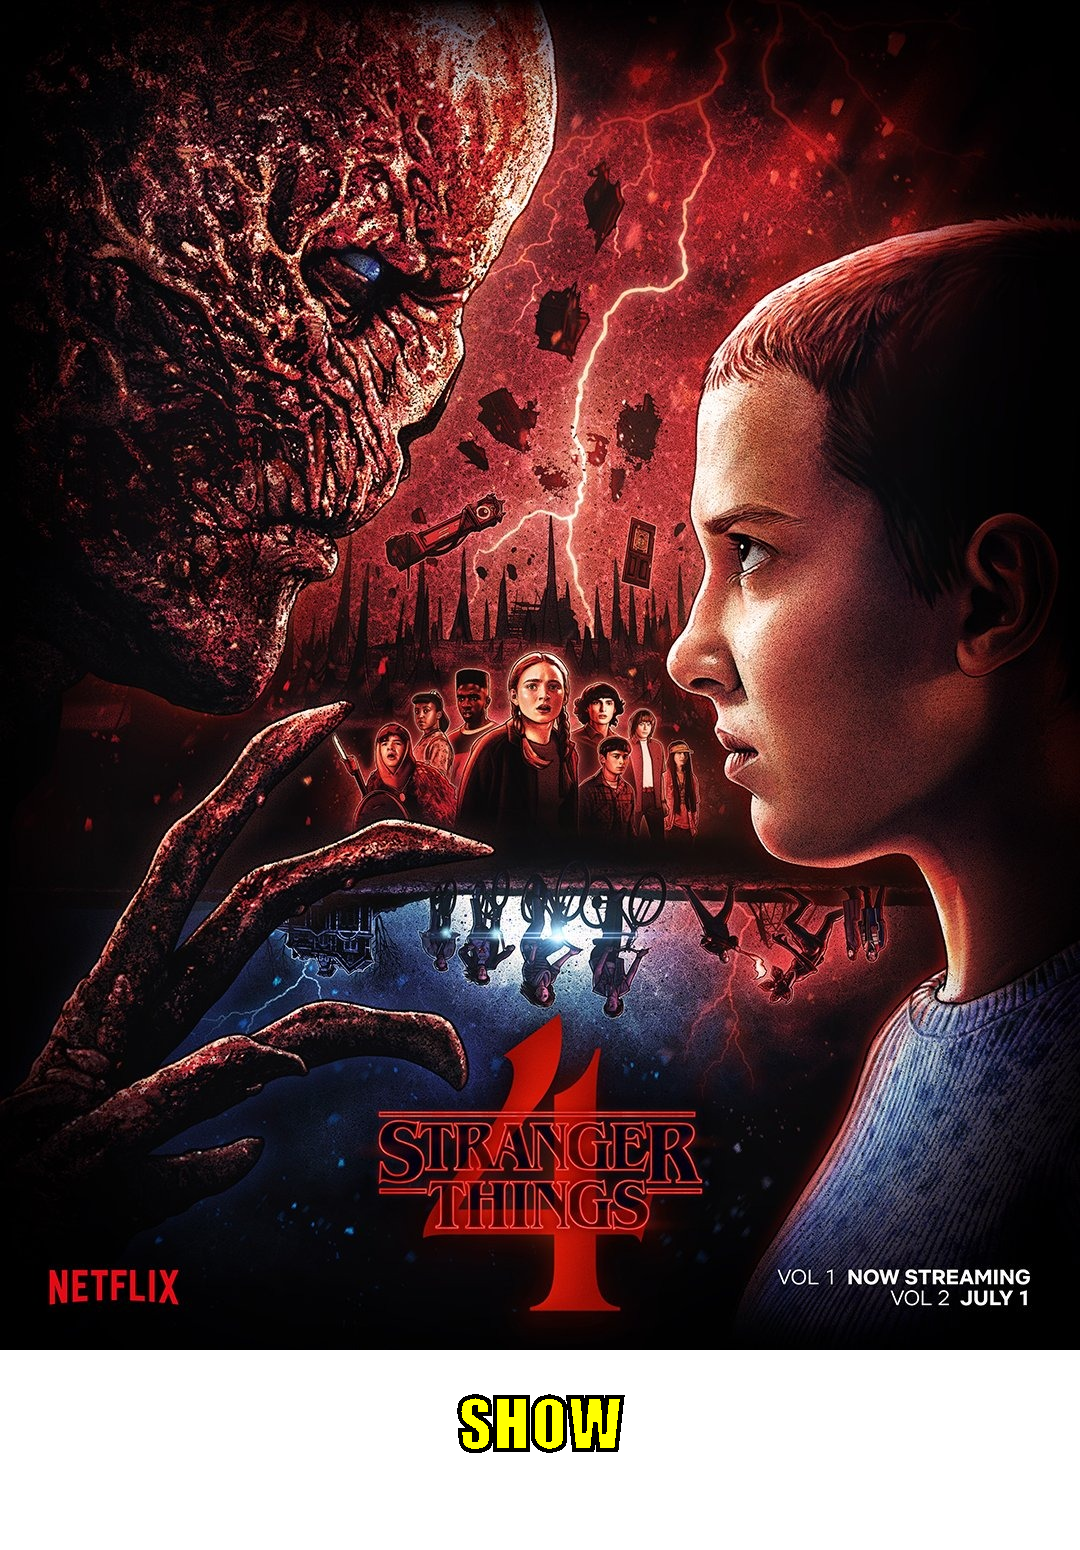
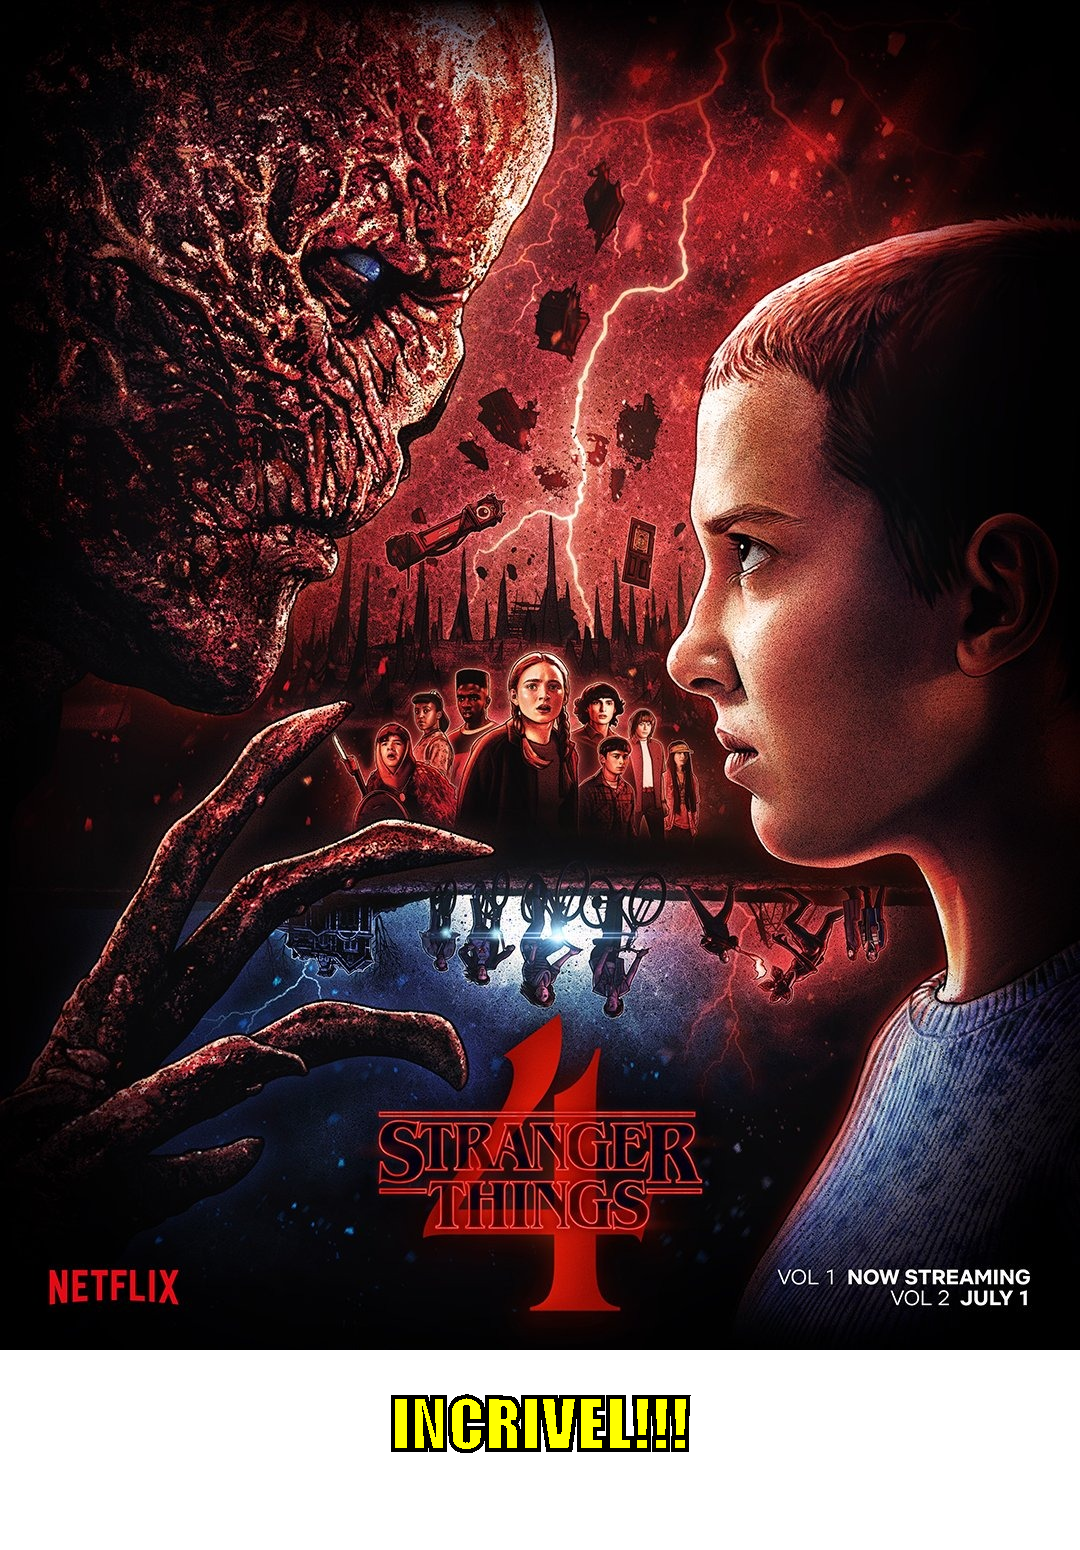
Faz o texto ser diferente dependendo da nota

Changed region(s): [[0.3361, 0.8981, 0.6417, 0.96]]

diff --git a/imsersão-stickers/src/App.java b/imsersão-stickers/src/App.java
@@ -26,6 +26,7 @@ public class App {
                 // exibir e manupular os dados
                 var diretorio = new File("figurinhas/");
                 diretorio.mkdir();
+                String texto = "Nem perca tempo";
                 for (Map<String,String> serie : listaDeSeries) {
                     String urlImagem = serie.get("image");
                     String titulo = serie.get("title");
@@ -34,10 +35,28 @@ public class App {
 
                     String nomeArquivo = "figurinhas/" + titulo + ".png";
 
+                    
+                    String nota = serie.get("imDbRating");
+                    double notaD = Double.parseDouble(nota);
 
-                    geradora.cria(inputStream, nomeArquivo);
+                    if (notaD == 10 || notaD>=8.5){ 
+                        texto="INCRIVEL!!!";
+                    }
+                    
+                    if (notaD <= 8.4 || notaD<=6){ 
+                        texto="Bom";
+                    }
+                    
+                    if (notaD >= 6 && notaD<=5){ 
+                        texto="Mediano";
+                    }
+                    
+
+
+                    geradora.cria(inputStream, nomeArquivo, texto);
 
                     System.out.println("\u001b[1m \u001b[44m Titulo: \u001b[m \u001b[m" + serie.get("title"));
+                    System.out.println(notaD);
                     System.out.println();
                 }
     }

diff --git a/imsersão-stickers/src/GeradorDeFigurinha.java b/imsersão-stickers/src/GeradorDeFigurinha.java
@@ -15,7 +15,7 @@ import java.io.InputStream;
 import javax.imageio.ImageIO;
 
 public class GeradorDeFigurinha {
-    public void cria(InputStream inputStream, String nomeArquivo) throws Exception{
+    public void cria(InputStream inputStream, String nomeArquivo, String texto) throws Exception{
         //leitura da imagem
         BufferedImage imagemOriginal = ImageIO.read(inputStream);
 
@@ -37,7 +37,6 @@ public class GeradorDeFigurinha {
         grafico.setFont(fonte);
 
         //escrever uma frase na nova imagem
-        String texto = "SHOW";
         FontMetrics fontMetrics =  grafico.getFontMetrics();
         Rectangle2D retangulo = fontMetrics.getStringBounds(texto, grafico);
         double larguraRetangulo = (int) retangulo.getWidth();
